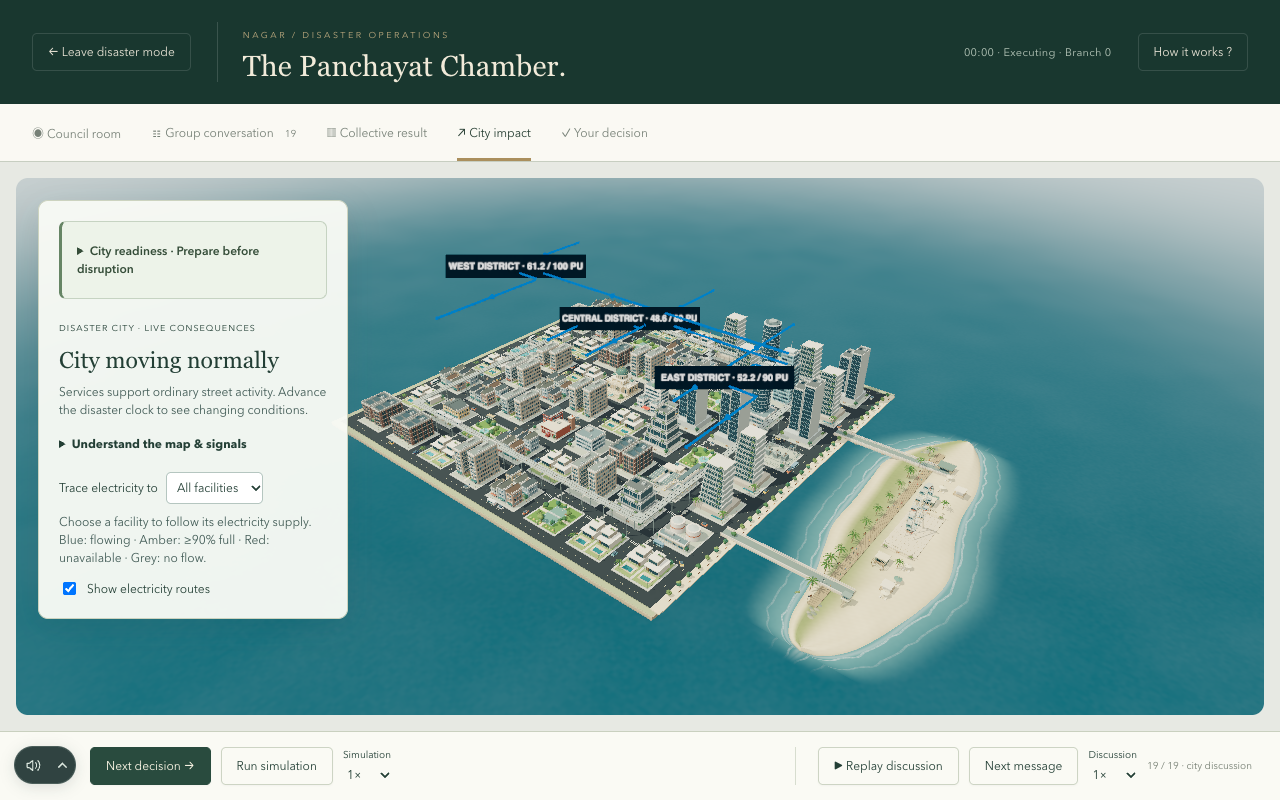
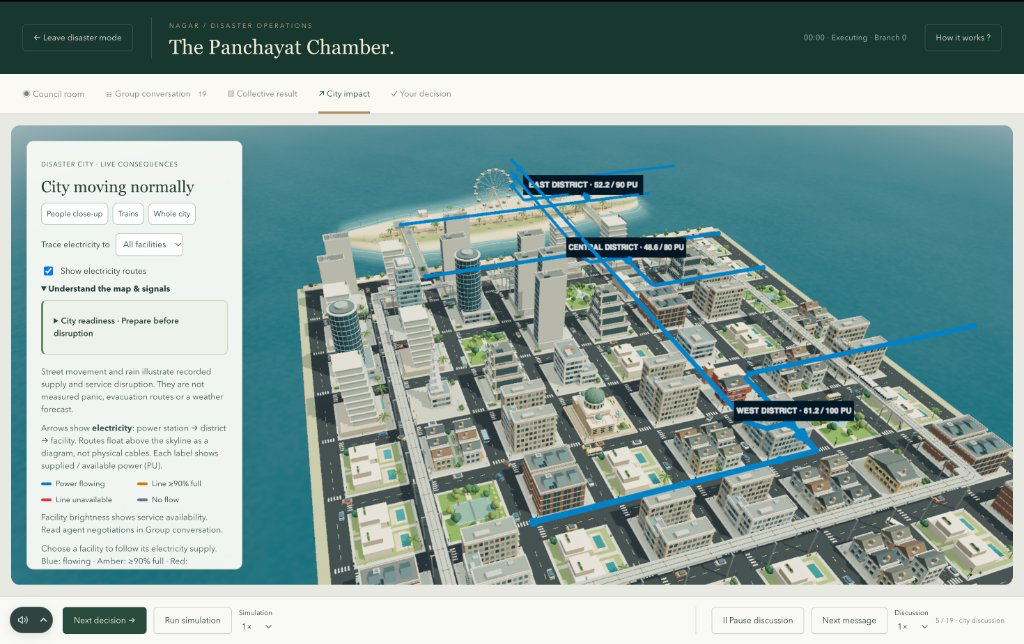
docs(readme): integrate official Panchayat courtroom and collective results screenshots
Update README with proper live screenshots of the 3D Panchayat chamber, tactical overhead seating, council collective result bars, and elevated power route tracing.

diff --git a/README.md b/README.md
@@ -21,15 +21,15 @@ The frontend integrates a real-time 3D Three.js digital twin of the city with an
 
 *Live recording: Entering the 3D Panchayat chamber, inspecting delegates around the round table, reviewing the operator decision guide, and advancing real-time simulation ticks.*
 
-| 3D Council Chamber (Courtroom View) | Overhead Tactical Table |
+| 3D Council Chamber (Courtroom Perspective) | Overhead Tactical Table |
 |---|---|
 | ![3D Council Chamber](docs/assets/panchayat-chamber-3d.png) | ![Panchayat Overhead View](docs/assets/panchayat-overhead.png) |
-| *Retaken courtroom perspective: 10 delegates seated with name cards, microphones, and central city model* | *Overhead camera view tracking table seating and active turns* |
+| *Official courtroom view: 10 delegates seated at the round table with physical name cards, microphones, and center miniature skyline* | *Overhead tactical camera view tracking round-table seating, delegate turns, and committed state* |
 
-| Active Deliberation in Session | Representative Detail & Inspection |
+| Council Collective Result | Representative Inspection & Case |
 |---|---|
-| ![Panchayat Deliberation Active](docs/assets/panchayat-deliberation-active.png) | ![Delegate Inspection](docs/assets/panchayat-delegate-inspection.png) |
-| *Real-time speech bubbles and status rings during active negotiation* | *Inspecting real-time demand, allocated power, and backup runtime* |
+| ![Council Collective Result](docs/assets/council-collective-result.png) | ![Delegate Inspection](docs/assets/panchayat-delegate-inspection.png) |
+| *Committed decision: 200 PU available, 162 PU allocated, 0 violations, and 100% within-tier fairness progress bars* | *Inspecting representative statements, power demand, allocated capacity, and backup runtime* |
 
 ---
 
@@ -60,7 +60,7 @@ The frontend integrates a real-time 3D Three.js digital twin of the city with an
 | Living 3D City Grid | Disaster City & Power Route Tracing |
 |---|---|
 | ![City Overview](docs/assets/city-overview.png) | ![Disaster City Impact](docs/assets/disaster-city-impact.png) |
-| *Authored 3D city with street grid, traffic, rail, and coastline* | *Flooded road conditions, storm effects, and power flow arcs* |
+| *Authored 3D city with street grid, traffic, rail, and coastline* | *Disaster operations with elevated power flow lines across East, Central, and West districts* |
 
 ---
 
